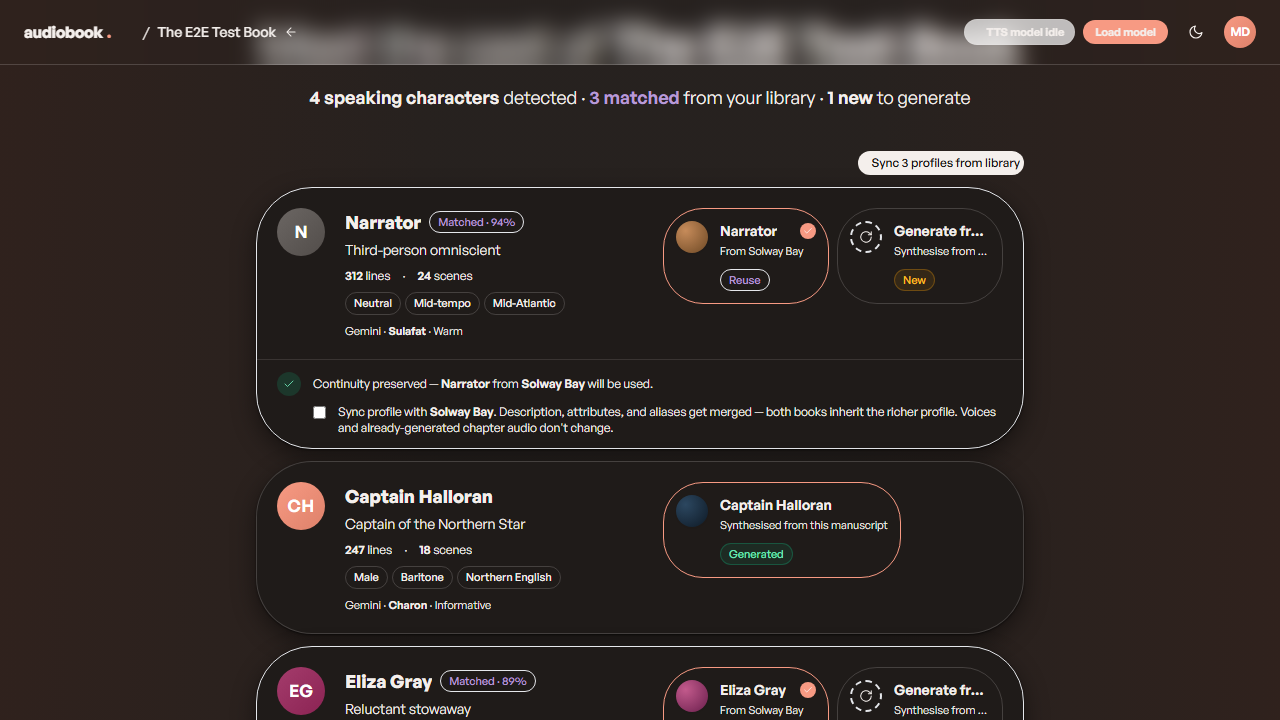
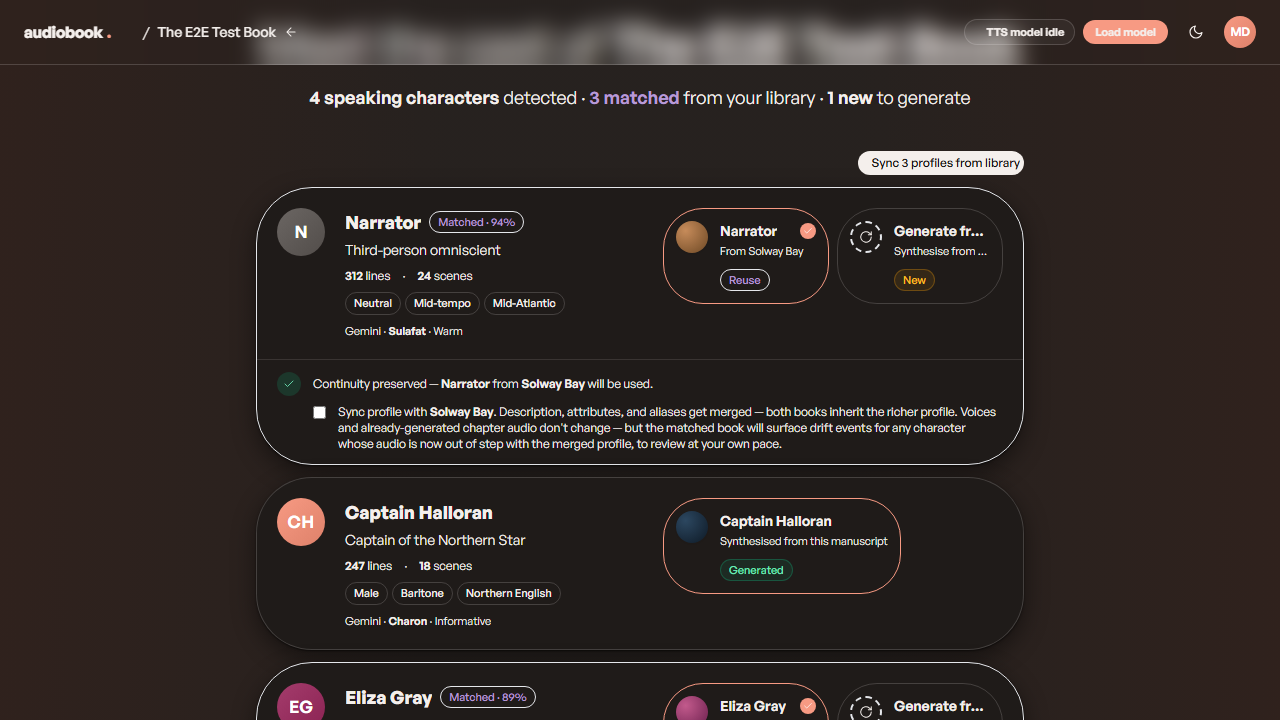
feat(frontend): disclose drift-event consequence on sync-profile checkbox
The "Sync profile with …" checkbox on confirm-cast told users that voices and already-generated chapter audio don't change, which is true, but omitted the actual consequence: because the symmetric merge mutates the matched book's attributes / gender / ageRange in cast.json, the drift detector then surfaces drift events on that older book within 30 s (attributes → moderate; gender / ageRange → severe). The user accepts each event at their own pace from the Drift Report — no auto-regen. This was confirmed in docs/features/archive/20-revisions-and-drift.md acceptance step 11 and in server/src/routes/library-cast-override.ts (voiceId, color, name, voiceState preserved on both sides).

Extends the disclosure copy under the checkbox so users see the drift-event consequence before ticking. Adds a paired Vitest assertion pinning the "will surface drift events" substring. Regenerates the two confirm visual baselines (light + dark) to match the longer copy block. No behavior change anywhere.

diff --git a/src/views/confirm-cast.test.tsx b/src/views/confirm-cast.test.tsx
@@ -150,6 +150,16 @@ describe('ConfirmCastView — library override toggle', () => {
     expect(screen.queryByRole('checkbox', { name: /Sync profile/i })).toBeNull();
   });
 
+  it('discloses that the matched book will surface drift events after the merge', () => {
+    /* The reassurance "Voices and already-generated chapter audio don't
+       change" is true but incomplete — the merge mutates the matched
+       book's attributes/gender/ageRange, which the drift detector then
+       surfaces as drift events on that book. The disclosure copy must
+       carry this consequence so users see it before ticking. */
+    renderView({ onOverrideLibrary: vi.fn(async () => {}) });
+    expect(screen.getByText(/will surface drift events/i)).toBeInTheDocument();
+  });
+
   it('omits the override checkbox when matchedFrom lacks the cross-book identifiers', () => {
     /* Older voice-match cache that predates fromBookId / fromCharacterId
        lands here. The checkbox should not render because we have no way

diff --git a/src/views/confirm-cast.tsx b/src/views/confirm-cast.tsx
@@ -376,7 +376,9 @@ function ConfirmCharacterCard({
                 <span className="text-ink/40">
                   {' '}
                   Description, attributes, and aliases get merged — both books inherit the richer
-                  profile. Voices and already-generated chapter audio don't change.
+                  profile. Voices and already-generated chapter audio don't change — but the
+                  matched book will surface drift events for any character whose audio is now out
+                  of step with the merged profile, to review at your own pace.
                 </span>
               </span>
             </label>